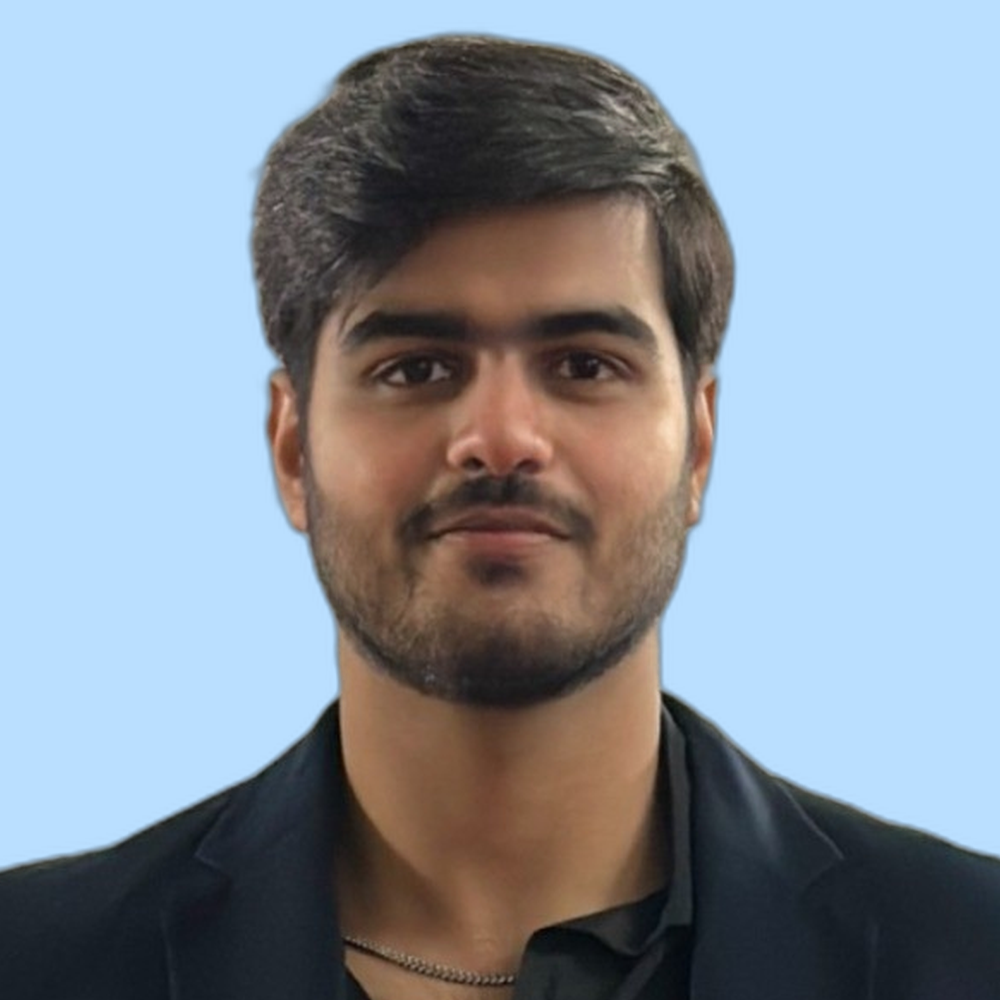
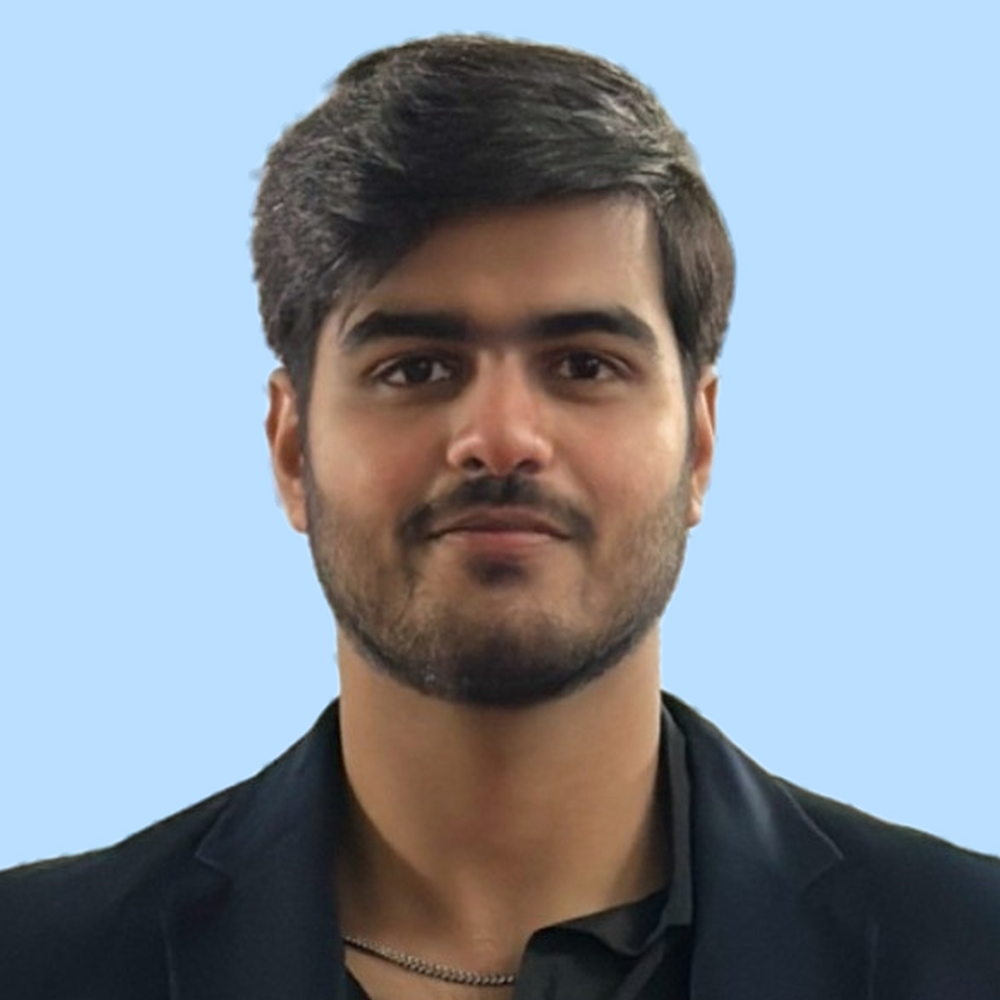
feat(people): add Jorge Cervera Torralba's headshot
He sent it in Slack DM (IMG_3690.jpg, 2026-09-07), not email, which is why the
first pass fell back to placeholder.svg. Source is 1096x1643, higher resolution
than the two LinkedIn photos.

Also decontaminate soft alpha edges in make_headshot.py: a semi-transparent
hair pixel is a blend of subject and old background, so compositing onto the
blue left a pale halo around flyaway hair. Solving C = a*F + (1-a)*B for F
removes it. Guarded on background uniformity, so a busy backdrop is skipped --
Courtney's foliage shot is byte-identical, Ahmed's wall gains slightly cleaner
hair edges.

Agent-UUID: ae0d9994-b024-592a-b5bc-aee10f5fc303

diff --git a/scripts/make_headshot.py b/scripts/make_headshot.py
@@ -74,11 +74,40 @@ def detect(img):
     return eye_mid, iod, float(f[0] + f[2] / 2)
 
 
+def decontaminate(cut, raw):
+    """Strip the old background's colour out of semi-transparent edge pixels.
+
+    A soft alpha edge (flyaway hair) is a blend of subject and original
+    background: C = a*F + (1-a)*B. Composited onto the blue, the leftover B
+    shows up as a pale halo. Solving for F removes it.
+
+    Only safe when the original background is close to uniform, so a busy
+    backdrop (foliage, a room) is left alone -- there is no single B to undo.
+    """
+    arr = np.asarray(cut).astype(np.float32)
+    a = arr[..., 3:4] / 255.0
+    rgb = np.asarray(raw).astype(np.float32)
+
+    bg_px = rgb[arr[..., 3] < 10]
+    if len(bg_px) < 500 or bg_px.std(axis=0).mean() > 25:
+        return cut  # background too varied to model
+    B = np.median(bg_px, axis=0)
+
+    edge = ((a > 0.04) & (a < 0.98))[..., 0]
+    fixed = rgb.copy()
+    fixed[edge] = np.clip(
+        (rgb[edge] - (1 - a[edge]) * B) / np.maximum(a[edge], 0.04), 0, 255
+    )
+    return Image.fromarray(
+        np.dstack([fixed.astype(np.uint8), arr[..., 3].astype(np.uint8)]), "RGBA"
+    )
+
+
 def main(src, dst):
     from rembg import new_session, remove
 
     raw = Image.open(src).convert("RGB")
-    cut = remove(raw, session=new_session("u2net"))
+    cut = decontaminate(remove(raw, session=new_session("u2net")), raw)
 
     alpha = np.asarray(cut)[..., 3]
     crown = float(np.where((alpha > 128).any(axis=1))[0].min())

diff --git a/content/homepage/people.md b/content/homepage/people.md
@@ -61,7 +61,7 @@ Dr. Goodman is an Assistant Professor in the [Department of Cancer Biology](http
 >}}
 
 {{< lab-member-card 
-    image="/images/people/placeholder.svg"
+    image="/images/people/jorge-cervera-torralba.png"
     name="Jorge Cervera Torralba"
     title="Undergraduate Researcher"
 >}}
